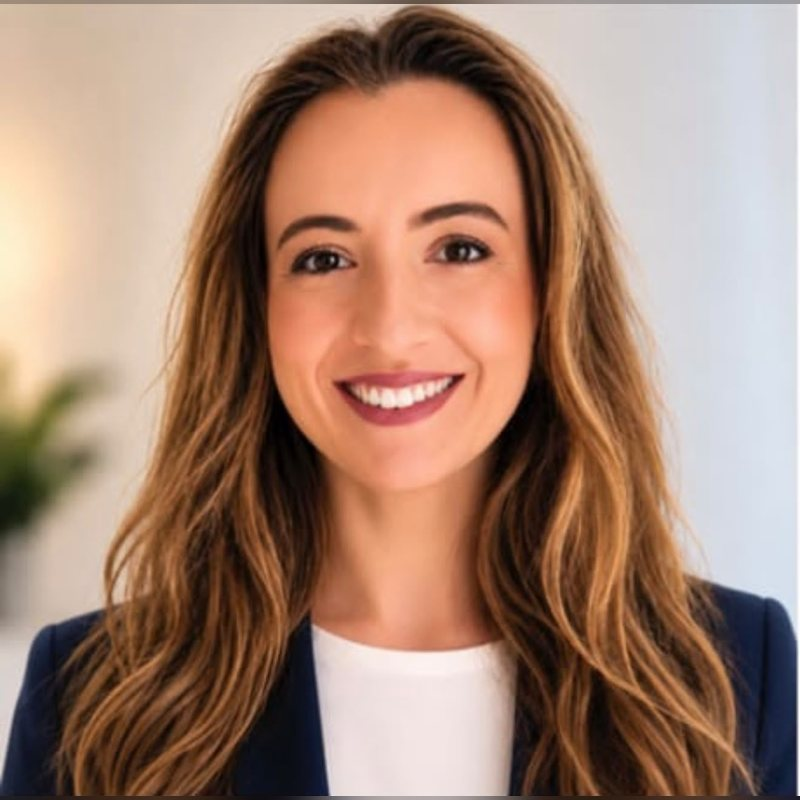
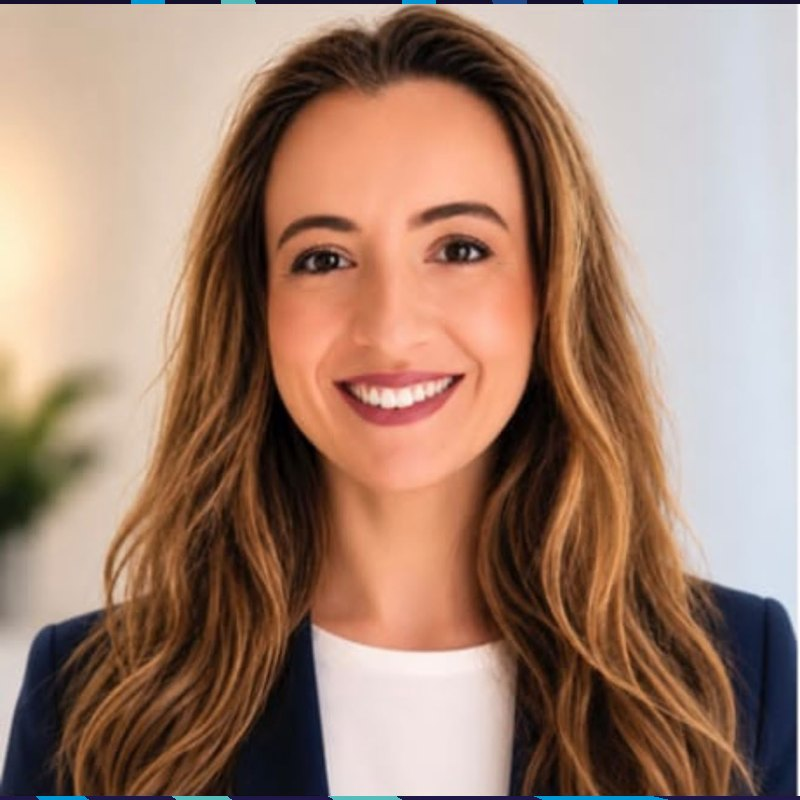
Mobil: hero rearanjat; senatori: text aliniat; echipa: fundal în culorile JCI
Claude-Session: https://claude.ai/code/session_011BFJkfWaeUiU8hyTUr9Dhf

Changed region(s): [[0.0, 0.0, 1.0, 0.0312], [0.0, 0.9688, 0.9688, 1.0]]

diff --git a/public/assets/css/style.css b/public/assets/css/style.css
@@ -96,11 +96,14 @@ header{position:sticky;top:0;z-index:20;background:rgba(19,15,45,.96);backdrop-f
 .ticket .btn{width:100%;justify-content:center;font-size:15px;padding:14px 18px}
 @media (max-width:1024px){.ticket{width:min(320px,72%)}}
 @media (max-width:900px){
-  .hero-grid{grid-template-columns:1fr;gap:40px}
-  .hero-visual{justify-self:center;max-width:460px}
-  .ticket{width:min(320px,78%)}
+  .hero{padding:44px 0 56px}
+  .hero-grid{grid-template-columns:1fr;gap:28px}
+  .hero-copy{max-width:none}
+  .hero-visual{justify-self:stretch;max-width:none;aspect-ratio:auto;padding:36px 0}
+  .hero-visual .ripple{inset:50% auto auto 50%;width:150%;height:auto;aspect-ratio:1;transform:translate(-50%,-50%);opacity:.55}
+  .ticket{width:100%;max-width:420px}
 }
-@media (max-width:420px){.ticket{width:86%;padding:22px}.ticket .date b{font-size:46px}}
+@media (max-width:420px){.ticket{padding:22px}.ticket .date b{font-size:46px}.areas{margin-top:28px}}
 
 /* Despre */
 .two{display:grid;grid-template-columns:1fr 1fr;gap:64px;align-items:start}
@@ -210,11 +213,11 @@ header{position:sticky;top:0;z-index:20;background:rgba(19,15,45,.96);backdrop-f
 .honor{margin-top:80px}
 .honor-grid{display:grid;grid-template-columns:repeat(3,1fr);gap:20px;margin-top:32px}
 @media (max-width:960px){.honor-grid{grid-template-columns:1fr}}
-.hcard{background:var(--ink);color:#fff;border-radius:20px;padding:26px;display:grid;grid-template-columns:96px 1fr;gap:20px;align-items:start;position:relative;overflow:hidden}
+.hcard{background:var(--ink);color:#fff;border-radius:20px;padding:26px;display:grid;grid-template-columns:96px 1fr;gap:20px;align-items:start;align-content:start;grid-template-rows:auto 1fr;position:relative;overflow:hidden}
 .hcard img{width:96px;height:96px;border-radius:50%;object-fit:cover;box-shadow:0 0 0 3px var(--yellow)}
 .hcard b{font-size:19px;display:block;line-height:1.2}
 .hcard .badge{display:inline-block;margin-top:6px;font-size:12px;font-weight:700;letter-spacing:.06em;color:var(--ink);background:var(--yellow);padding:3px 8px}
-.hcard p{grid-column:1/-1;font-size:15px;color:#C9CBE0}
+.hcard p{grid-column:1/-1;align-self:start;font-size:15px;color:#C9CBE0}
 .hcard .num{font-variant-numeric:tabular-nums;color:var(--teal);font-weight:600;font-size:14px;margin-left:6px}
 
 /* Implică-te */
